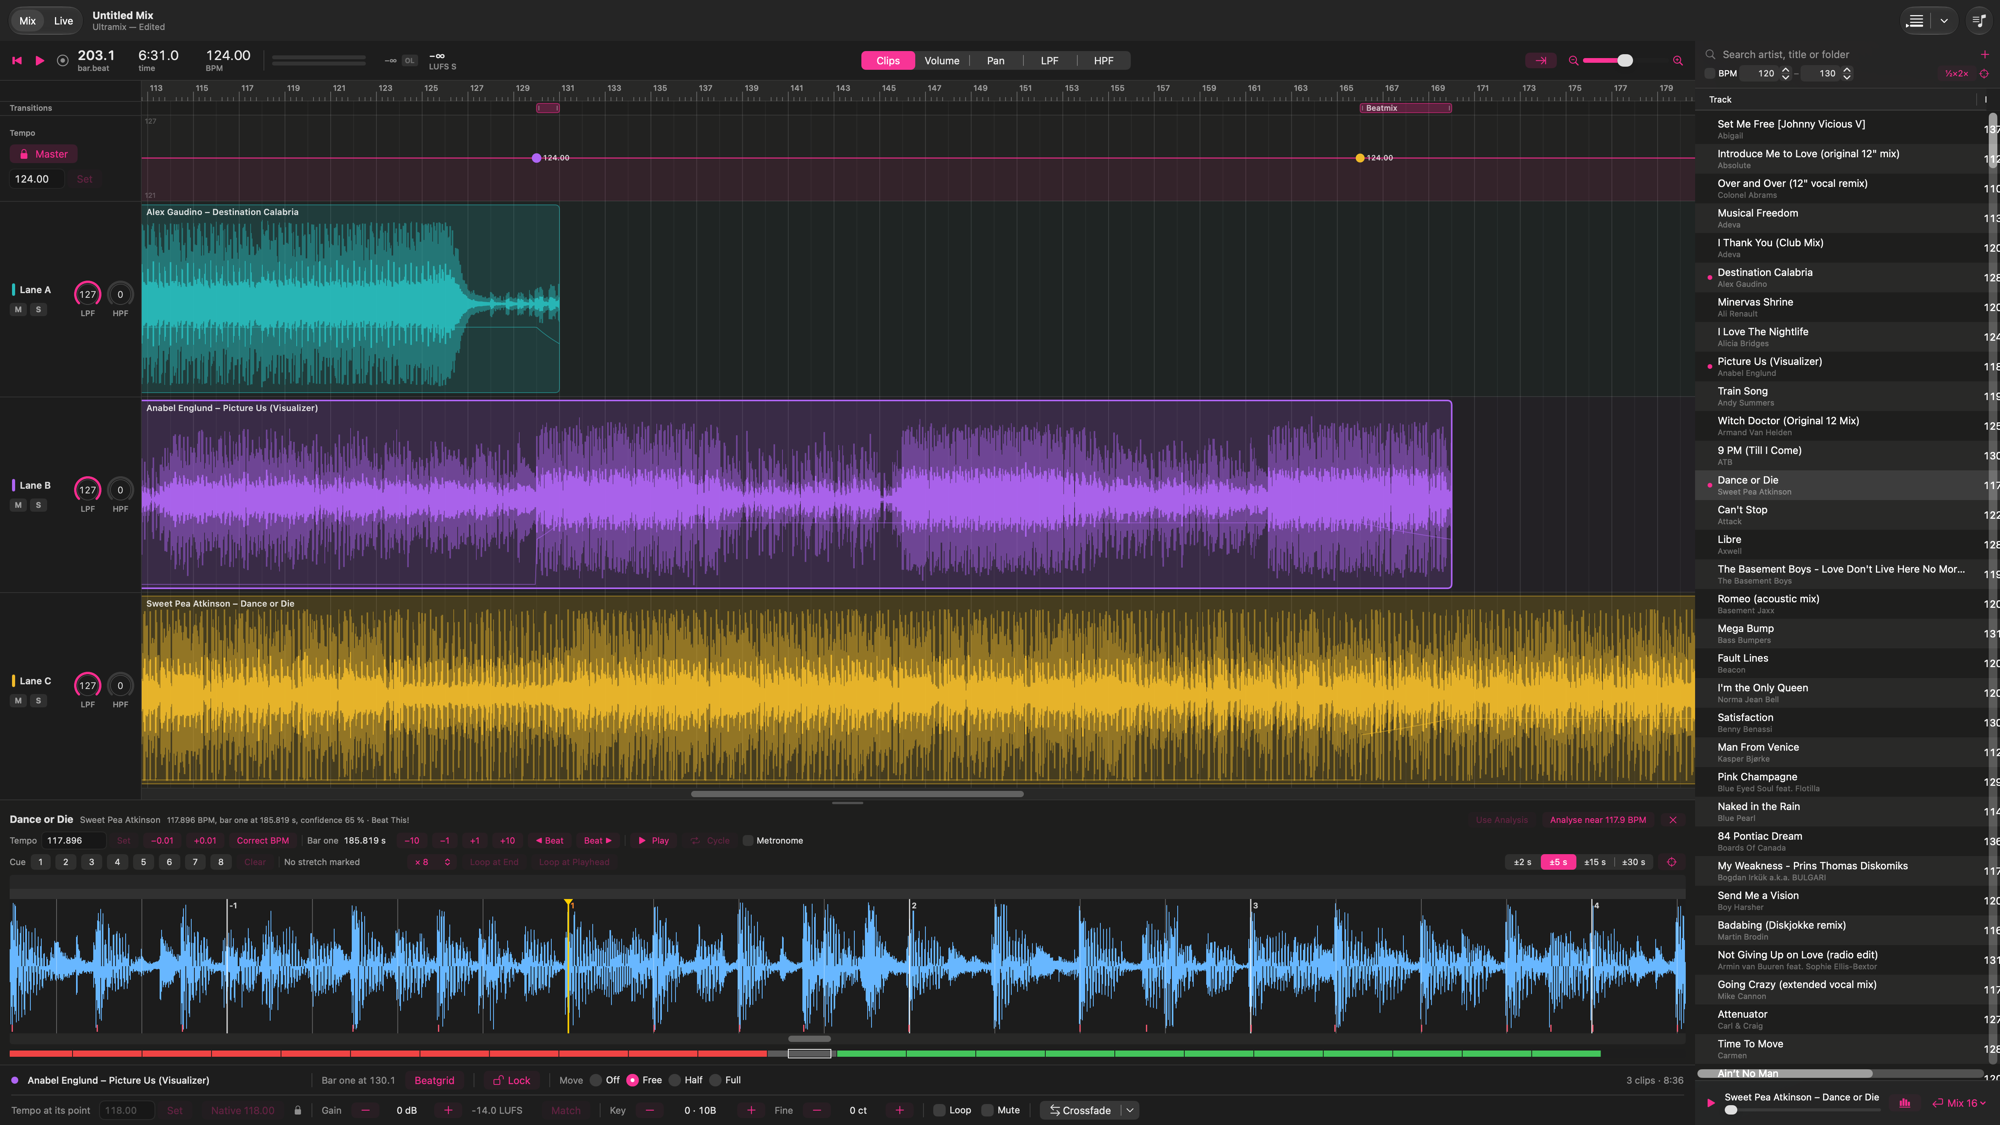
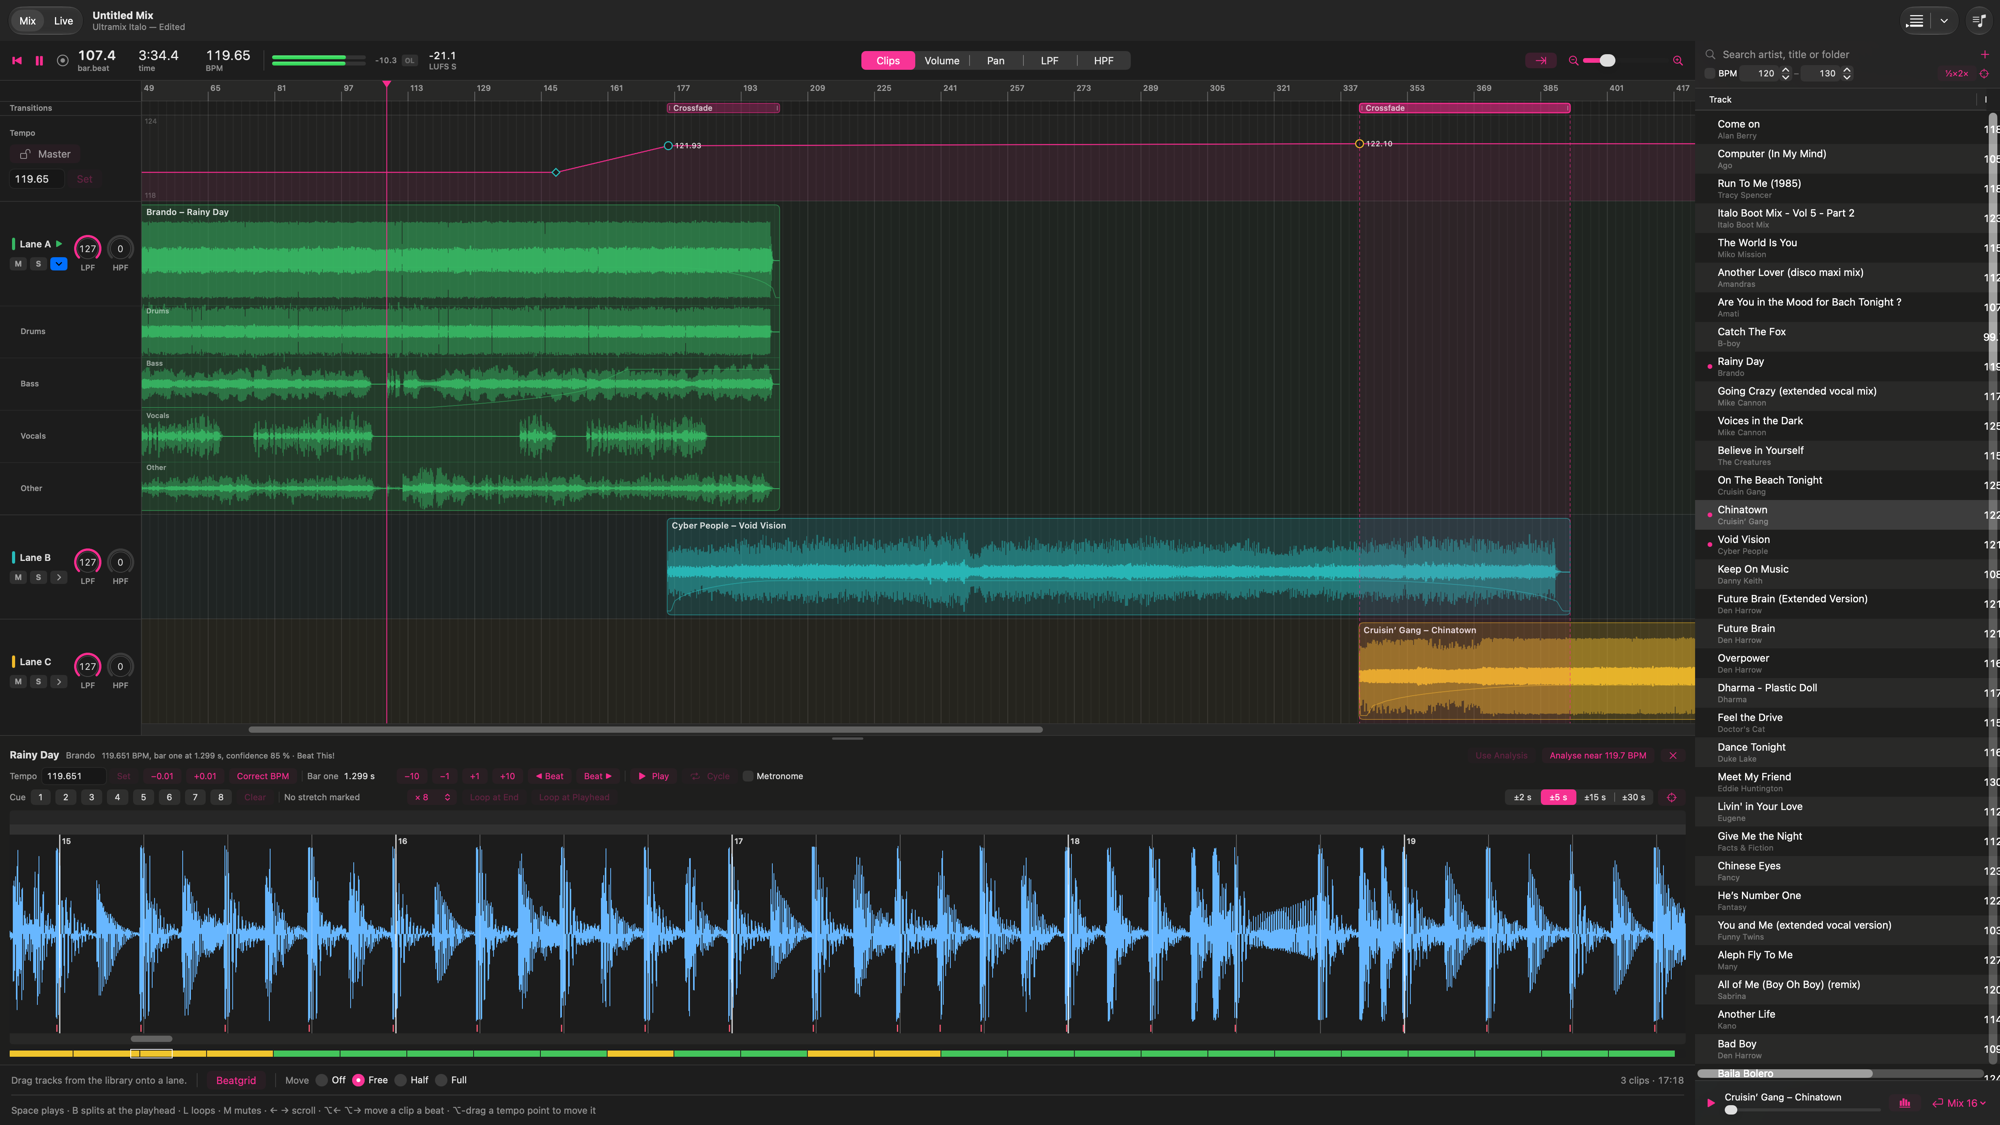
Update the README screenshot for 1.4
Shows lane A expanded: under its clip a row each for drums, bass, vocals
and other with their own waveforms, three clips with two crossfade bars,
the beatgrid editor open below. Resized from a 5120x2880 capture to
2000px wide, as before.

diff --git a/README.md b/README.md
@@ -4,7 +4,7 @@ A native macOS DJ mix editor: build a complete mix on a beat-based timeline
 before the party, hear every transition while you shape it, and bounce the
 finished set to WAV or MP3.
 
-![Ultramix: a three-lane timeline with the master tempo locked at 124 BPM and transition bars, the beatgrid editor open, and the clip bar with Key and Fine](screenshot.png)
+![Ultramix: lane A expanded into drums, bass, vocals and other rows under its clip, each with its own waveform, three clips with two crossfade bars, and the beatgrid editor open below](screenshot.png)
 
 Swift, SwiftUI and AVFoundation, Apple Silicon only.
 
